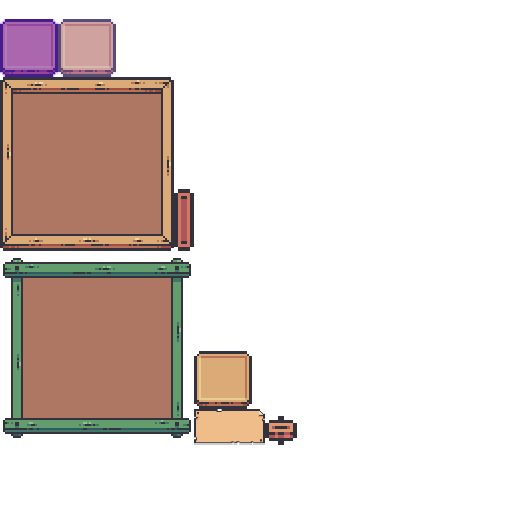
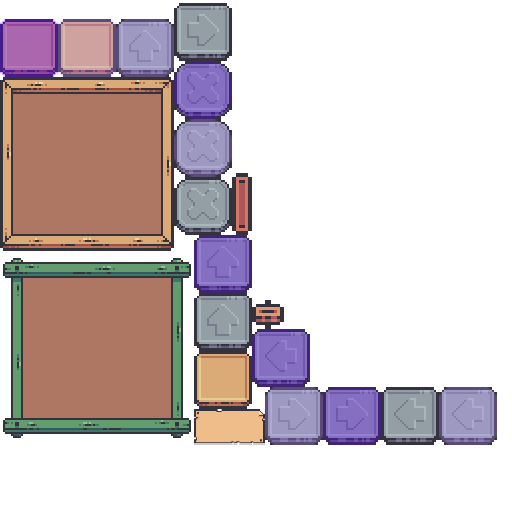
add mobile game controller

Changed region(s): [[0.2188, 0.0, 0.9688, 0.875]]

diff --git a/core/src/ru/samsung/gamestudio/screens/GameScreen.java b/core/src/ru/samsung/gamestudio/screens/GameScreen.java
@@ -11,6 +11,7 @@ import com.badlogic.gdx.scenes.scene2d.utils.ClickListener;
 import com.badlogic.gdx.utils.ScreenUtils;
 import com.badlogic.gdx.utils.TimeUtils;
 import com.badlogic.gdx.utils.viewport.FitViewport;
+import org.w3c.dom.ls.LSOutput;
 import ru.samsung.gamestudio.MyGdxGame;
 import ru.samsung.gamestudio.game.GameSession;
 import ru.samsung.gamestudio.game.GameState;
@@ -58,6 +59,10 @@ public class GameScreen extends BaseScreen {
 
         backgroundStage.addActor(liveBackground);
         hudStage.addActor(gameUi);
+
+        System.out.println("mobcont: " + gameUi.mobileController);
+        if (gameUi.mobileController != null) {
+        }
 
         b2WorldManager.setOnLoseListener(onLoseListener);
         b2WorldManager.setOnWinListener(onWinListener);
@@ -115,13 +120,17 @@ public class GameScreen extends BaseScreen {
 
         if (session.getState() == GameState.PLAYING) {
 
-            if (Gdx.input.isKeyPressed(Input.Keys.UP)) {
+            if (Gdx.input.isKeyPressed(Input.Keys.UP)
+                    || gameUi.mobileController != null && gameUi.mobileController.upButton.isPressed()) {
                 b2WorldManager.player.moveUp();
-            } if (Gdx.input.isKeyPressed(Input.Keys.LEFT)) {
+            } if (Gdx.input.isKeyPressed(Input.Keys.LEFT)
+                    || gameUi.mobileController != null && gameUi.mobileController.backButton.isPressed()) {
                 b2WorldManager.player.moveLeft();
-            } if (Gdx.input.isKeyPressed(Input.Keys.RIGHT)) {
+            } if (Gdx.input.isKeyPressed(Input.Keys.RIGHT)
+                    || gameUi.mobileController != null && gameUi.mobileController.forwardButton.isPressed()) {
                 b2WorldManager.player.moveRight();
-            } if (Gdx.input.isKeyPressed(Input.Keys.F)) {
+            } if (Gdx.input.isKeyPressed(Input.Keys.F)
+                    || gameUi.mobileController != null && gameUi.mobileController.attackButton.isPressed()) {
                 b2WorldManager.player.attack();
             }
 

diff --git a/core/src/ru/samsung/gamestudio/ui/screens/GameUi.java b/core/src/ru/samsung/gamestudio/ui/screens/GameUi.java
@@ -1,10 +1,15 @@
 package ru.samsung.gamestudio.ui.screens;
 
+import com.badlogic.gdx.Application;
+import com.badlogic.gdx.Gdx;
 import com.badlogic.gdx.math.Vector3;
+import com.badlogic.gdx.scenes.scene2d.ui.Button;
 import com.badlogic.gdx.scenes.scene2d.ui.Skin;
+import com.badlogic.gdx.scenes.scene2d.ui.Table;
 import ru.samsung.gamestudio.ui.UiComponent;
 import ru.samsung.gamestudio.ui.components.HudUi;
 import ru.samsung.gamestudio.ui.components.LoseDialog;
+import ru.samsung.gamestudio.ui.components.MobileController;
 import ru.samsung.gamestudio.ui.components.WinDialog;
 
 import static ru.samsung.gamestudio.game.GameSettings.*;
@@ -15,6 +20,7 @@ public class GameUi extends UiComponent {
     public final WinDialog winDialog;
 
     public final HudUi hudUi;
+    public MobileController mobileController;
 
     public GameUi(Skin skin) {
 
@@ -23,6 +29,12 @@ public class GameUi extends UiComponent {
         winDialog = new WinDialog(skin);
 
         addActor(hudUi);
+
+        if (Gdx.app.getType() == Application.ApplicationType.Android) {
+            mobileController = new MobileController(skin);
+            addActor(mobileController);
+        }
+
         hudUi.setPosition(SCREEN_WIDTH / 2f - hudUi.getWidth() / 2, SCREEN_HEIGHT - 50);
     }
 

diff --git a/core/src/ru/samsung/gamestudio/ui/components/MobileController.java b/core/src/ru/samsung/gamestudio/ui/components/MobileController.java
@@ -1,0 +1,32 @@
+package ru.samsung.gamestudio.ui.components;
+
+import com.badlogic.gdx.scenes.scene2d.ui.Button;
+import com.badlogic.gdx.scenes.scene2d.ui.Skin;
+import com.badlogic.gdx.scenes.scene2d.ui.Table;
+
+import static ru.samsung.gamestudio.game.GameSettings.SCREEN_WIDTH;
+
+public class MobileController extends Table {
+
+    public final Button upButton;
+    public final Button attackButton;
+    public final Button backButton;
+    public final Button forwardButton;
+
+    public MobileController(Skin skin) {
+
+        upButton = new Button(skin, "buttonUp");
+        backButton = new Button(skin, "buttonBack");
+        forwardButton = new Button(skin, "buttonForward");
+        attackButton = new Button(skin, "buttonAttack");
+
+        setWidth(SCREEN_WIDTH);
+        add(backButton).height(100).width(100).padLeft(30).padBottom(130);
+        add(forwardButton).height(100).width(100).padLeft(30).padBottom(130);
+        add().expand();
+        add(attackButton).height(100).width(100).padRight(30).padBottom(130);
+        add(upButton).height(100).width(100).padRight(30).padBottom(130);
+
+    }
+
+}

diff --git a/core/src/ru/samsung/gamestudio/ui/components/HudUi.java b/core/src/ru/samsung/gamestudio/ui/components/HudUi.java
@@ -11,7 +11,9 @@ public class HudUi extends Table {
 
     private final Label scoreLabel;
     private final Label leftLivesLabel;
-    final Image pauseButton;
+
+    public final Image pauseButton;
+
 
     public HudUi(Skin skin) {
 
